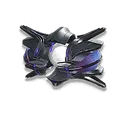
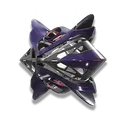
Update gamever to 1.5 and Typhoeus Weapon Art

diff --git a/src/index.ts b/src/index.ts
@@ -400,7 +400,7 @@ Alpine.data("exporter", () => ({
 
 Alpine.data("meta", () => ({
   appVer: import.meta.env.VITE_APP_VERSION,
-  gameVer: "1.4",
+  gameVer: "1.5",
 }))
 
 Alpine.data("persistence", () => ({
